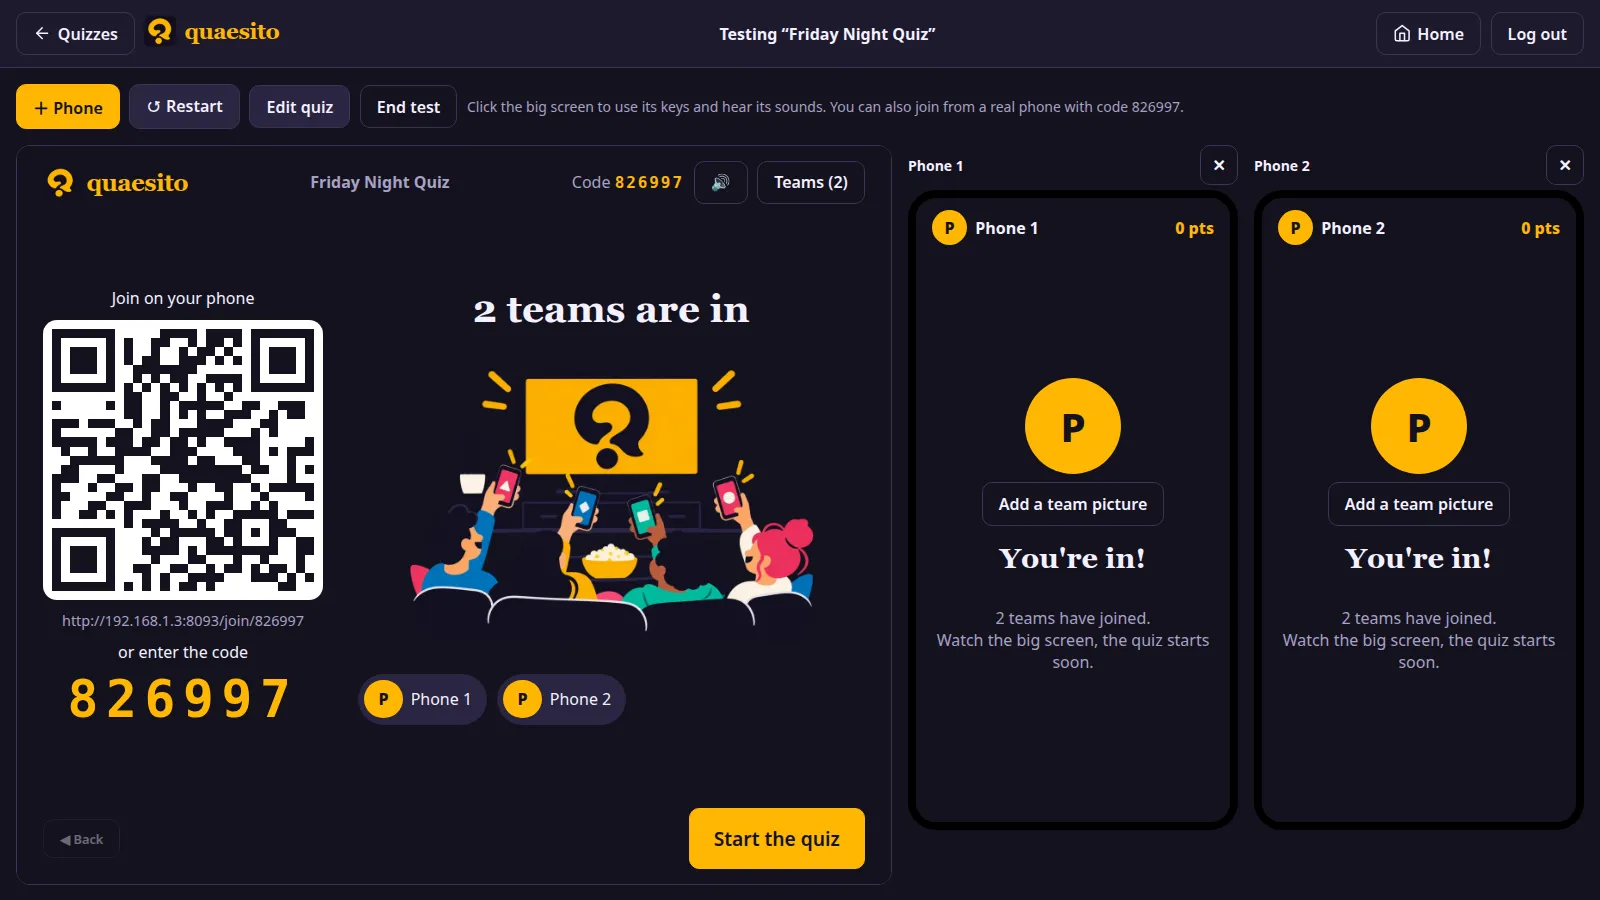
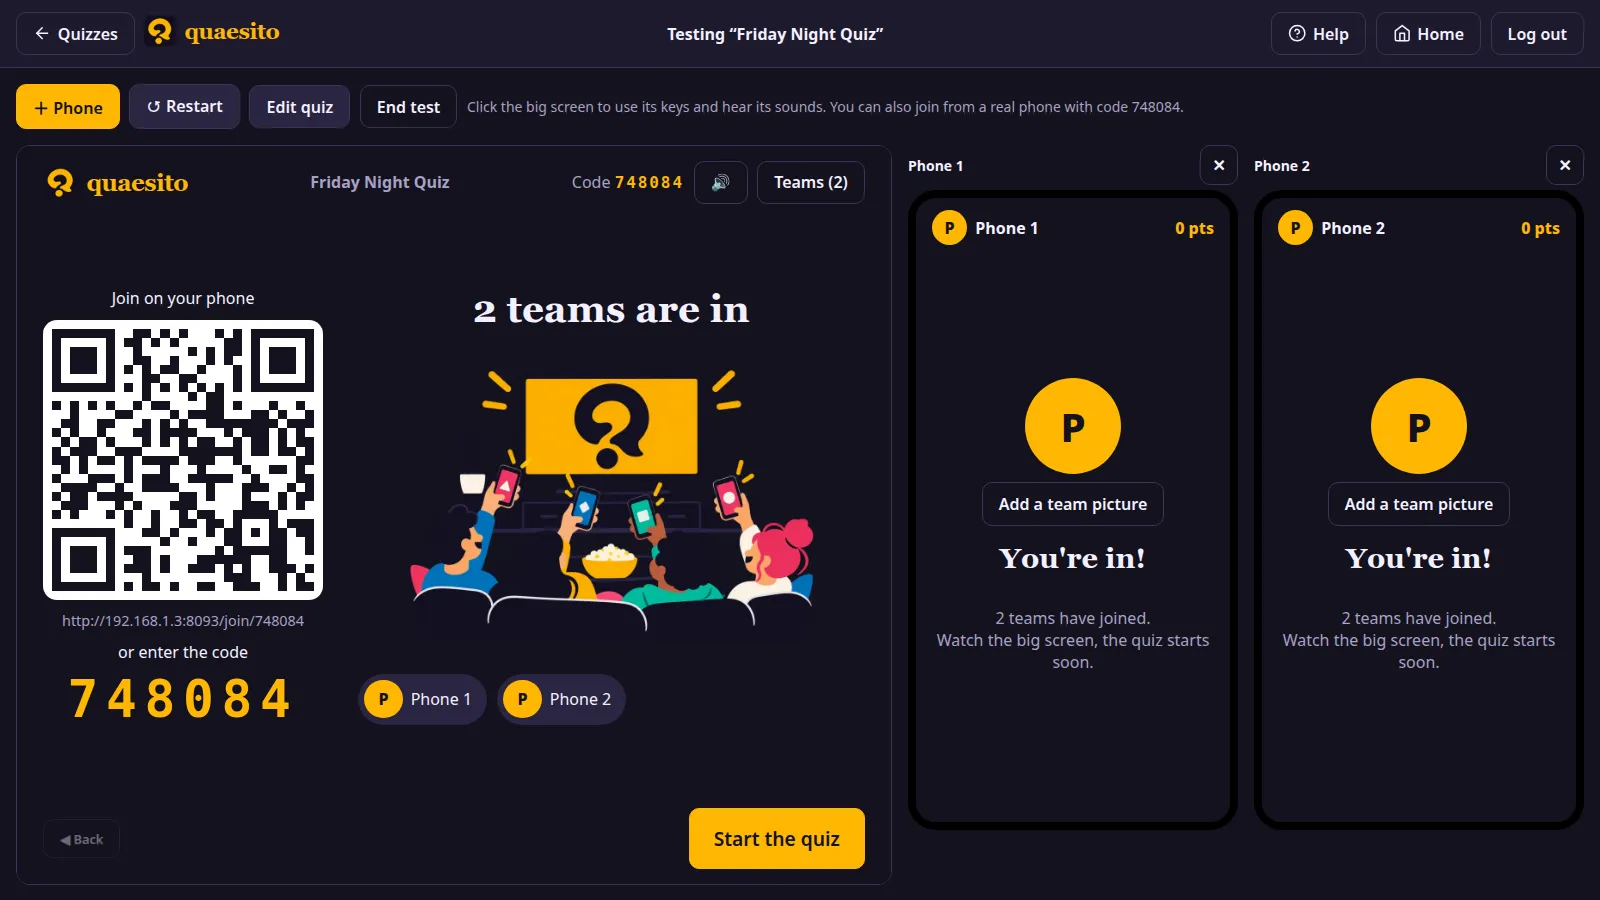
feat: demo quiz on first start, help button and bundled user guide
A fresh install gets a demo quiz with one question of each kind. The home page and admin pages
link to the user guide, which the downloads now include and the server serves at /docs/ so it
works offline; without a local copy /docs/ leads to the hosted guide.

diff --git a/tools/browser/check-help.js b/tools/browser/check-help.js
@@ -1,0 +1,39 @@
+// Checks the demo quiz a fresh server adds, the help links, and the user guide at /docs/.
+//   just docs-build && DEMO_QUIZ=1 tools/browser/run.sh check-help.js
+const L = require('./lib.js');
+
+(async () => {
+  const token = await L.api('/api/admin/login', { password: 'test' });
+  const list = await L.api('/api/admin/quizzes', { token });
+  const demo = list.find((q) => q.title === 'Demo quiz');
+  console.log('demo quiz:', demo ? `${demo.question_count} questions, issues ${JSON.stringify(demo.issues)}` : 'MISSING');
+  if (demo) {
+    const code = await L.api('/api/admin/test/start', { token, quiz_id: demo.id });
+    console.log('demo quiz test game:', code);
+  }
+
+  const guide = await fetch(`${L.B}/docs/`);
+  console.log('/docs/:', guide.status, (await guide.text()).match(/<title>(.*?)<\/title>/)?.[1]);
+  const bare = await fetch(`${L.B}/docs`, { redirect: 'manual' });
+  console.log('/docs:', bare.status, bare.headers.get('location'));
+  const page = await fetch(`${L.B}/docs/getting-started/`);
+  console.log('/docs/getting-started/:', page.status);
+  const video = await fetch(`${L.B}/docs/media/demo.mp4`, { headers: { Range: 'bytes=0-99' } });
+  console.log('/docs/media/demo.mp4 range:', video.status, video.headers.get('content-type'));
+  console.log('/docs/missing:', (await fetch(`${L.B}/docs/missing/`)).status);
+
+  const ctx = await L.setup({ questions: [L.choice('Q', 0)] });
+  const home = await ctx.browser.newPage();
+  ctx.watch(home, 'home');
+  await home.goto(`${L.B}/`, { waitUntil: 'networkidle0' });
+  console.log('home help link:', await home.$eval('.corner-links a[href="/docs/"]', (a) => a.title).catch(() => 'MISSING'));
+  await home.setViewport({ width: 390, height: 300 });
+  await home.screenshot({ path: 'out/check-help-home.png' });
+  const admin = await L.openAdmin(ctx, '/admin');
+  await admin.waitForSelector('.topbar');
+  console.log('admin help link:', await admin.$eval('.topbar a[href="/docs/"]', (a) => a.innerText.trim()).catch(() => 'MISSING'));
+  console.log('admin list shows demo:', await admin.evaluate(() => document.body.innerText.includes('Demo quiz')));
+  await admin.screenshot({ path: 'out/check-help-admin.png' });
+  console.log('ERRORS', ctx.errors.length ? ctx.errors : 'none');
+  await ctx.browser.close();
+})().catch((e) => { console.error(e); process.exit(1); });

diff --git a/assets/main.css b/assets/main.css
@@ -258,10 +258,15 @@ textarea {
   flex: none;
 }
 
-.corner-link {
+.corner-links {
   position: fixed;
   top: max(0.75rem, env(safe-area-inset-top));
   right: max(0.75rem, env(safe-area-inset-right));
+  display: flex;
+  gap: 0.25rem;
+}
+
+.corner-link {
   display: inline-flex;
   padding: 0.55rem;
   border-radius: 50%;

diff --git a/src/server/demo.rs b/src/server/demo.rs
@@ -1,0 +1,89 @@
+//! The demo quiz, added the first time the server starts so there is an example to play and to
+//! open in the editor. It is offered once: deleting it does not bring it back.
+
+use std::path::Path;
+
+use super::{
+    media::{ImageKind, MediaStore},
+    store::{QuizStore, new_id},
+};
+use crate::model::Quiz;
+
+const QUIZ: &str = include_str!("demo-quiz.json");
+/// The quiz's one picture, named `lobby.jpg` in the quiz.
+const PICTURE: &[u8] = include_bytes!("demo-quiz.jpg");
+/// Written to the data directory once the demo quiz has been offered.
+const MARKER: &str = "demo-quiz-added";
+
+/// Adds the demo quiz if it has never been offered and there are no quizzes yet.
+///
+/// # Errors
+/// Fails if the quiz or its picture cannot be stored.
+pub async fn add_once(
+    data_dir: &Path,
+    quizzes: &QuizStore,
+    media: &MediaStore,
+) -> anyhow::Result<()> {
+    let marker = data_dir.join(MARKER);
+    if tokio::fs::try_exists(&marker).await? {
+        return Ok(());
+    }
+    if quizzes.list().await?.is_empty() {
+        quizzes.save(&demo(media).await?).await?;
+    }
+    tokio::fs::write(
+        &marker,
+        "The demo quiz has been added once. Delete this file to have it added again.\n",
+    )
+    .await?;
+    Ok(())
+}
+
+async fn demo(media: &MediaStore) -> anyhow::Result<Quiz> {
+    let mut quiz: Quiz = serde_json::from_str(QUIZ)?;
+    quiz.id = new_id();
+    let picture = media.store(PICTURE.to_vec(), ImageKind::Question).await?;
+    quiz.rename_media(|_| Some(picture.clone()));
+    Ok(quiz)
+}
+
+#[cfg(test)]
+mod tests {
+    use super::*;
+
+    #[tokio::test]
+    async fn the_demo_quiz_is_playable_and_added_once() {
+        let dir = std::env::temp_dir().join(format!("quaesito-demo-{}", uuid::Uuid::new_v4()));
+        let quizzes = QuizStore::open(dir.join("quizzes")).await.unwrap();
+        let media = MediaStore::open(dir.join("media")).await.unwrap();
+
+        add_once(&dir, &quizzes, &media).await.unwrap();
+        let all = quizzes.all().await.unwrap();
+        assert_eq!(all.len(), 1);
+        let quiz = &all[0];
+        assert_eq!(quiz.validate(), Vec::new());
+        for name in quiz.media() {
+            assert!(media.read_bytes(&name).await.is_some(), "{name} is missing");
+        }
+
+        // Deleted, it stays deleted.
+        quizzes.delete(&quiz.id).await.unwrap();
+        add_once(&dir, &quizzes, &media).await.unwrap();
+        assert_eq!(quizzes.list().await.unwrap(), Vec::new());
+        let _ = tokio::fs::remove_dir_all(dir).await;
+    }
+
+    #[tokio::test]
+    async fn existing_quizzes_get_no_demo() {
+        let dir = std::env::temp_dir().join(format!("quaesito-demo-{}", uuid::Uuid::new_v4()));
+        let quizzes = QuizStore::open(dir.join("quizzes")).await.unwrap();
+        let media = MediaStore::open(dir.join("media")).await.unwrap();
+        quizzes
+            .save(&Quiz::new(new_id(), "Mine".to_owned()))
+            .await
+            .unwrap();
+        add_once(&dir, &quizzes, &media).await.unwrap();
+        assert_eq!(quizzes.list().await.unwrap().len(), 1);
+        let _ = tokio::fs::remove_dir_all(dir).await;
+    }
+}

diff --git a/src/server/docs.rs b/src/server/docs.rs
@@ -1,0 +1,75 @@
+//! The user guide at `/docs/`: the documentation site shipped next to the server, or the hosted one
+//! when there is no local copy (as when developing).
+
+use std::path::PathBuf;
+
+use dioxus::fullstack::{
+    axum::{
+        Router,
+        body::Body,
+        extract::Request,
+        http::{StatusCode, Uri},
+        response::{IntoResponse, Redirect, Response},
+    },
+    routing::get,
+};
+use tower_http::services::ServeDir;
+
+/// The hosted documentation.
+const HOSTED: &str = "https://ggirelli.github.io/quaesito/";
+
+/// Where the documentation site is looked for, unless `QUAESITO_DOCS_DIR` says: `docs` in the
+/// downloads, `site` after `just docs-build` in the repository (whose `docs` holds the sources).
+const LOCAL: [&str; 2] = ["docs", "site"];
+
+/// Routes for `/docs` and everything under it.
+pub fn routes() -> Router {
+    let dir = local_dir();
+    let shown = dir
+        .as_ref()
+        .map_or_else(|| HOSTED.to_owned(), |dir| dir.display().to_string());
+    dioxus::logger::tracing::info!("user guide: {shown}");
+    let serve = move |request: Request| serve(dir.clone(), request);
+    Router::new()
+        .route("/docs", get(|| async { Redirect::permanent("/docs/") }))
+        .route("/docs/", get(serve.clone()))
+        .route("/docs/{*path}", get(serve))
+}
+
+/// The built documentation site, if there is one.
+fn local_dir() -> Option<PathBuf> {
+    let candidates = match std::env::var_os("QUAESITO_DOCS_DIR") {
+        Some(dir) => vec![PathBuf::from(dir)],
+        None => LOCAL.iter().map(PathBuf::from).collect(),
+    };
+    candidates
+        .into_iter()
+        .find(|dir| dir.join("index.html").is_file())
+}
+
+async fn serve(dir: Option<PathBuf>, request: Request) -> Response {
+    let path = request
+        .uri()
+        .path()
+        .strip_prefix("/docs")
+        .unwrap_or_default()
+        .to_owned();
+    let Some(dir) = dir else {
+        let page = path.trim_start_matches('/');
+        return Redirect::temporary(&format!("{HOSTED}{page}")).into_response();
+    };
+    let (mut parts, body) = request.into_parts();
+    parts.uri = match parts.uri.query() {
+        Some(query) => format!("{path}?{query}"),
+        None => path,
+    }
+    .parse()
+    .unwrap_or_else(|_| Uri::from_static("/"));
+    match ServeDir::new(dir)
+        .try_call(Request::from_parts(parts, body))
+        .await
+    {
+        Ok(response) => response.map(Body::new),
+        Err(_) => StatusCode::INTERNAL_SERVER_ERROR.into_response(),
+    }
+}

diff --git a/src/ui/widgets.rs b/src/ui/widgets.rs
@@ -107,6 +107,7 @@ pub fn TeamAvatar(team: crate::protocol::TeamInfo, #[props(default)] class: Stri
 #[derive(Clone, Copy, PartialEq, Eq)]
 pub enum IconKind {
     Settings,
+    Help,
     Home,
     Back,
     Music,
@@ -117,6 +118,24 @@ pub enum IconKind {
     Import,
 }
 
+/// Opens the user guide in a new tab.
+#[component]
+pub fn HelpLink(#[props(default)] class: String, #[props(default)] label: bool) -> Element {
+    rsx! {
+        a {
+            class,
+            href: "/docs/",
+            target: "_blank",
+            title: "User guide",
+            aria_label: "User guide",
+            Icon { kind: IconKind::Help }
+            if label {
+                "Help"
+            }
+        }
+    }
+}
+
 /// A small inline icon.
 #[component]
 pub fn Icon(kind: IconKind) -> Element {
@@ -124,6 +143,11 @@ pub fn Icon(kind: IconKind) -> Element {
         IconKind::Settings => rsx! {
             circle { cx: 12, cy: 12, r: 3 }
             path { d: "M19.4 15a1.65 1.65 0 0 0 .33 1.82l.06.06a2 2 0 1 1-2.83 2.83l-.06-.06a1.65 1.65 0 0 0-1.82-.33 1.65 1.65 0 0 0-1 1.51V21a2 2 0 1 1-4 0v-.09A1.65 1.65 0 0 0 9 19.4a1.65 1.65 0 0 0-1.82.33l-.06.06a2 2 0 1 1-2.83-2.83l.06-.06a1.65 1.65 0 0 0 .33-1.82 1.65 1.65 0 0 0-1.51-1H3a2 2 0 1 1 0-4h.09A1.65 1.65 0 0 0 4.6 9a1.65 1.65 0 0 0-.33-1.82l-.06-.06a2 2 0 1 1 2.83-2.83l.06.06a1.65 1.65 0 0 0 1.82.33H9a1.65 1.65 0 0 0 1-1.51V3a2 2 0 1 1 4 0v.09a1.65 1.65 0 0 0 1 1.51 1.65 1.65 0 0 0 1.82-.33l.06-.06a2 2 0 1 1 2.83 2.83l-.06.06a1.65 1.65 0 0 0-.33 1.82V9a1.65 1.65 0 0 0 1.51 1H21a2 2 0 1 1 0 4h-.09a1.65 1.65 0 0 0-1.51 1z" }
+        },
+        IconKind::Help => rsx! {
+            circle { cx: 12, cy: 12, r: 10 }
+            path { d: "M9.09 9a3 3 0 0 1 5.83 1c0 2-3 3-3 3" }
+            line { x1: 12, y1: 17, x2: 12.01, y2: 17 }
         },
         IconKind::Home => rsx! {
             path { d: "M3 9l9-7 9 7v11a2 2 0 0 1-2 2H5a2 2 0 0 1-2-2z" }

diff --git a/src/server/mod.rs b/src/server/mod.rs
@@ -2,6 +2,8 @@
 
 pub mod auth;
 pub mod bundle;
+pub mod demo;
+pub mod docs;
 pub mod engine;
 pub mod live;
 pub mod matching;
@@ -62,6 +64,9 @@ pub async fn init() -> anyhow::Result<()> {
         sessions: Sessions::open(data_dir.join("games")).await?,
         limits: media::limits_from_env(),
     };
+    if let Err(err) = demo::add_once(&data_dir, &state.quizzes, &state.media).await {
+        dioxus::logger::tracing::warn!("adding the demo quiz: {err:#}");
+    }
     dioxus::logger::tracing::info!("data directory: {}", data_dir.display());
     // A concurrent initialisation may have won the race; either state is equivalent.
     if STATE.set(state).is_ok() {
@@ -127,6 +132,7 @@ pub fn routes() -> Router {
     Router::new()
         .route("/media/{name}", get(media::serve))
         .route("/export/{id}", get(export))
+        .merge(docs::routes())
 }
 
 #[derive(serde::Deserialize)]

diff --git a/src/ui/home.rs b/src/ui/home.rs
@@ -5,7 +5,7 @@ use dioxus::prelude::*;
 use super::{
     Route,
     player::JoinCodeForm,
-    widgets::{Brand, Icon, IconKind},
+    widgets::{Brand, HelpLink, Icon, IconKind},
 };
 
 #[component]
@@ -16,12 +16,15 @@ pub fn Home() -> Element {
             p { class: "tagline", "Quizzes among friends." }
             JoinCodeForm {}
         }
-        Link {
-            class: "corner-link",
-            to: Route::Admin {},
-            title: "Admin",
-            aria_label: "Admin",
-            Icon { kind: IconKind::Settings }
+        nav { class: "corner-links",
+            HelpLink { class: "corner-link" }
+            Link {
+                class: "corner-link",
+                to: Route::Admin {},
+                title: "Admin",
+                aria_label: "Admin",
+                Icon { kind: IconKind::Settings }
+            }
         }
     }
 }

diff --git a/src/ui/admin.rs b/src/ui/admin.rs
@@ -4,7 +4,7 @@ use dioxus::prelude::*;
 
 use super::{
     Route, client,
-    widgets::{Brand, ClientOnly, ErrorBox, Icon, IconKind, Spinner, message},
+    widgets::{Brand, ClientOnly, ErrorBox, HelpLink, Icon, IconKind, Spinner, message},
 };
 use crate::api::{
     admin_check, admin_login, create_quiz, delete_quiz, duplicate_quiz, end_session, import_quiz,
@@ -118,6 +118,7 @@ pub fn AdminHeader(#[props(default)] back: bool, children: Element) -> Element {
             }
             div { class: "row", {children} }
             div { class: "row",
+                HelpLink { class: "button ghost", label: true }
                 Link { class: "button ghost", to: Route::Home {}, title: "Home page",
                     Icon { kind: IconKind::Home }
                     "Home"

diff --git a/planning/DESIGN.md b/planning/DESIGN.md
@@ -180,8 +180,15 @@ Everything lives under a data directory (`QUAESITO_DATA_DIR`, default `./data`):
   JSON; bundled media go through the same checks and re-encoding as uploads, get new names, and
   references to missing or rejected media are dropped. Sizes are capped before and after
   decompression.
+- `demo-quiz-added`: written once the built-in demo quiz (`server/demo-quiz.json` and its
+  picture, compiled into the server) has been offered. It is added only when there are no quizzes,
+  so a new install has an example and deleting it is final.
 - Uploads no quiz or live game uses (pictures, soundtracks, team avatars) are deleted at startup
   and daily, once they are a day old, so files uploaded into an unsaved editor survive.
+
+The user guide (the MkDocs site in `docs/`) ships in the downloads as a built `docs` folder, served
+at `/docs/` by `server::docs`, so help works on a quiz night without internet. Without a local
+copy (`QUAESITO_DOCS_DIR`, `docs` or `site`), `/docs/…` redirects to the hosted guide.
 
 ## Networking
 

diff --git a/planning/STATUS.md b/planning/STATUS.md
@@ -50,8 +50,10 @@ Living tracker of the implementation plan. See [DESIGN.md](DESIGN.md) for the de
 | 41 | Project boilerplate: MIT licence, contributing guide, code of conduct, security policy, templates, changelog | ✅ done |
 | 42 | Documentation site (MkDocs, `just docs`) on GitHub Pages, with screenshots from `just screenshots` | ✅ done |
 | 43 | Ready-to-run downloads for Linux, macOS (Apple silicon) and Windows, built by CI on version tags | ✅ done |
-| 44 | Demo video with a Kokoro voice-over, captions and transcript (`just demo-video`) | ✅ done |
+| 44 | Demo video with a Chatterbox voice-over (Whisper-checked takes, Kokoro as a fallback), captions and transcript (`just demo-video`) | ✅ done |
 | 45 | Disclaimer: the app is fully vibe coded | ✅ done |
+| 46 | Demo quiz added on first start | ✅ done |
+| 47 | Help button and user guide bundled in the downloads (`/docs/`) | ✅ done |
 
 ## Notes
 

diff --git a/docs/getting-started.md b/docs/getting-started.md
@@ -25,6 +25,13 @@ their phones over the same Wi-Fi; no internet connection is needed.
     `start.command`, choose **Open**, then **Open** again. Windows asks whether to let quaesito
     through the firewall: allow it on private networks so phones can connect.
 
+The first time, your quiz list holds a **Demo quiz** with one question of each kind: press
+**Test** to play it with pretend phones, or open it to see how it is made. Delete it when you no
+longer need it; it does not come back.
+
+This guide comes with the app too: the :material-help-circle-outline: icon on the home page and
+**Help** in the admin pages open it, even without an internet connection.
+
 Your quizzes, pictures and games are kept in the `data` folder next to the start script. Copy it
 to back up or move everything to another computer.
 

diff --git a/docs/configuration.md b/docs/configuration.md
@@ -13,6 +13,7 @@ QUAESITO_ADMIN_PASSWORD=pick-something ./start.sh
 | `QUAESITO_DATA_DIR` | `data` next to the start script | where quizzes, pictures, soundtracks and games are kept |
 | `QUAESITO_PUBLIC_URL` | this computer's LAN address | the address used in join links and the QR code |
 | `IP` / `PORT` | `0.0.0.0` / `8080` | where the server listens (`0.0.0.0` accepts phones on the network) |
+| `QUAESITO_DOCS_DIR` | `docs` next to the start script | the user guide served at `/docs/`; without one, `/docs/` leads to the online guide |
 | `QUAESITO_MAX_PICTURE_MB` | `15` | largest picture upload |
 | `QUAESITO_MAX_AUDIO_MB` | `40` | largest soundtrack upload |
 | `QUAESITO_MAX_VIDEO_MB` | `200` | largest video upload |
